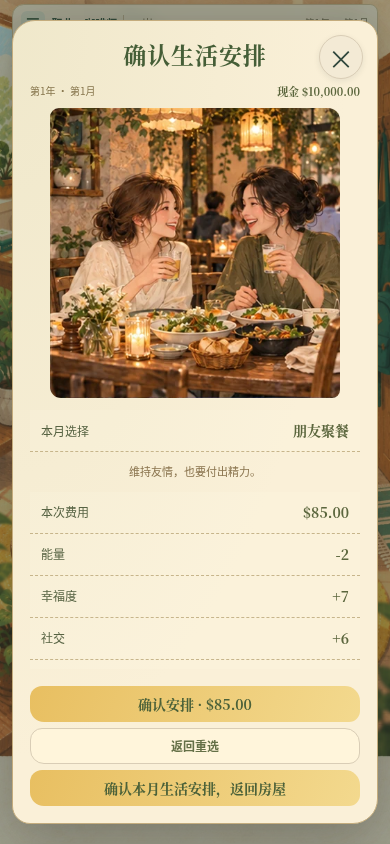
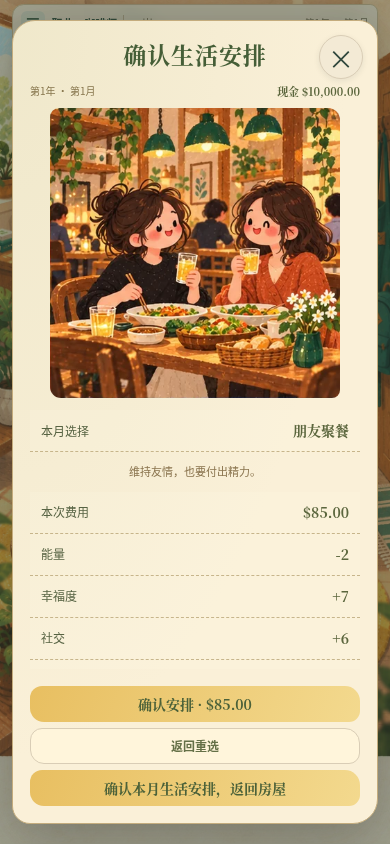
Restore original picture-book style for life illustrations

Changed region(s): [[0.1231, 0.1232, 0.8923, 0.4929]]

diff --git a/sw.js b/sw.js
@@ -1,4 +1,4 @@
-const CACHE='wealth-life-v28.3-life-pages1';
+const CACHE='wealth-life-v28.3-life-style1';
 const ASSETS=["./assets/career/life-funding.webp","./life-pages-art.js?v=28.3-life-pages1","./life-pages-art.css?v=28.3-life-pages1","./assets/career/life-activities.webp","./insurance-rules.js?v=28.3-insurance1","./insurance-hub.js?v=28.3-insurance1","./insurance-hub.css?v=28.3-insurance1","./life-hub-art.js?v=28.3-life-hub1","./life-hub-art.css?v=28.3-life-hub1","./assets/career/life-arrangements.webp","./recovery-activity-guards.js?v=28.3-recovery-guard1","./pet-social-contacts.js?v=28.3-pet-simple1","./assets/career/pet-gecko-cleaning.webp","./assets/career/pet-spider-cleaning.webp","./assets/career/pet-tortoise-cleaning.webp","./assets/career/pet-chameleon-cleaning.webp","./assets/career/pet-cat-professional.webp","./assets/career/pet-cat-cleaning-scenes.webp","./pet-art-map.js?v=28.3-pet-simple1","./pet-art-map.css?v=28.3-pet-map1","./pet-page-art.js?v=28.3-pet-map1","./assets/career/pet-policy.webp","./assets/career/pet-crocodile-cleaning.webp","./assets/career/pet-crocodile-adoption.webp","./assets/career/pet-cat-adoption.webp","./pet-funds-shortage.js?v=28.3-pet-funds1","./pet-funds-shortage.css?v=28.3-pet-funds1","./pet-adoption-success.js?v=28.3-pet-map1","./pet-adoption-success.css?v=28.3-pet-success1","./assets/career/pet-adoption-success.webp","./pet-owned-hub.js?v=28.3-pet-map1","./pet-owned-hub.css?v=28.3-pet-owned1","./assets/career/pet-owned-sheet.webp","./assets/career/pet-cleaning-scenes.webp","./pet-daily-care.js?v=28.3-pet-simple1","./pet-daily-care.css?v=28.3-pet-clean-art1","./pet-adoption-art.js?v=28.3-pet-map1","./pet-adoption-art.css?v=28.3-pet-form1","./assets/career/pet-corgi-adoption.webp","./pet-selection-art.js?v=28.3-pet-entry1","./pet-selection-art.css?v=28.3-pet-center1","./assets/career/pet-selection.webp","./pet-hub-art.js?v=28.3-pet-care-label1","./pet-hub-art.css?v=28.3-pet-hub1","./assets/career/pet-hub.webp","./assets/career/home-mobile.webp","./room-arrangements.js?v=28.3-pet-map1","./map-card-data.js?v=28.3-pet-social-limit1", "./map-card-rules.js?v=28.3-mapcards1", "./map-card-system.js?v=28.3-pet-simple1", "./map-card.css?v=28.3-mapcards1", "./assets/career/map-pet-unwell.webp", "./assets/career/map-pet-injury.webp", "./assets/career/map-pet-companion.webp", "./assets/career/map-pet-social.webp", "./assets/career/map-pet-mishap.webp", "./assets/career/map-investment-studio.webp", "./assets/career/map-investment-bun-shop.webp", "./assets/career/map-investment-laundry.webp"] .concat(["./cafe-rules.js?v=28.3-manager1","./cafe-system.js?v=28.3-manager1","./career-entry.js?v=28.3-mobile-room1","./career-entry.css?v=28.3-entry2","./assets/career/shift-promotion-pending.webp","./assets/career/shift-promotion-preview.webp","./assets/career/coffee-course.webp","./pet-adoption.js?v=28.3-pet-success1","./candidate-art.js?v=28.3-candidate1","./assets/career/barista-portrait.webp","./assets/career/pet-time-shortage.webp","./assets/career/pet-funds-shortage.webp","./assets/career/pet-crocodile-care.webp","./assets/career/bank-application.webp","./assets/career/bank-payment.webp","./housing-art.js?v=28.3-housing1","./assets/career/housing-select.webp","./assets/career/housing-reserve.webp","./assets/career/living-cost.webp","./return-art.js?v=28.3-return1","./assets/career/insurance.webp","./assets/career/return-energy.webp","./assets/career/return-stress.webp","./assets/career/payday.webp","./health-art.js?v=28.3-health1","./assets/career/rest-arrange.webp","./assets/career/rest-complete.webp","./assets/career/hospital-recovery.webp","./assets/career/month-recovery.webp","./education-art.js?v=28.3-education1","./assets/career/degrees.webp","./assets/career/associate-preview.webp","./learning-art.js?v=28.3-learning1","./assets/career/learning.webp","./assets/career/management-course.webp","./assets/career/service-course.webp","./hobby-art.js?v=28.3-room2","./assets/career/hobbies.webp","./home-scene.js?v=28.3-room-unified1","./home-scene.css?v=28.3-room-unified1","./assets/career/home.webp","./release-info.js?v=28.3-internal1","./financial-crisis.js?v=28.3-internal1","./four-state.js?v=28.3-internal1","./rest-state.js?v=28.3-internal1","./coffee-salary.js?v=28.3-internal1","./housing-lease.js?v=28.3-internal1","./pet-care.js?v=28.3-pet-map1","./necessary-bills.js?v=28.3-internal1","./recovery-ui.js?v=28.3-internal1","./medical-insurance.js?v=28.3-internal1","./recovery-rules.js?v=28.3-internal1","./time-ledger.js?v=28.3-internal1","./time-flow.js?v=28.3-home-end1","./assets/career/town.webp","./coffee-career.js?v=28.3-mapcards1", "./assets/career/barista-staff.webp", "./assets/career/barista-busy.webp", "./assets/career/barista-cut.webp", "./assets/career/barista-tip.webp", "./assets/career/barista-departure.webp", "./assets/career/shift-training.webp", "./assets/career/shift-schedule.webp", "./assets/career/shift-schedule-success.webp", "./assets/career/shift-schedule-failure.webp", "./assets/career/shift-complaint.webp", "./assets/career/shift-complaint-success.webp", "./assets/career/shift-complaint-failure.webp", "./assets/career/shift-acting.webp", "./assets/career/shift-acting-success.webp", "./assets/career/shift-acting-failure.webp", "./assets/career/shift-praise.webp", "./assets/career/intro.webp"] .concat(["./shift-lead.js?v=28.3-internal1","./shift-lead.css?v=28.3-internal1","./paper.css?v=28.3-internal1",'./coffee.js?v=28.3-internal1','./town.js?v=28.3-internal1','./','./index.html','./core.js','./flow.js?v=28.3-internal1','./journey.js?v=28.3-internal1','./batch.js?v=28.3-mapcards1','./revision.js?v=28.3-internal1','./annual.js?v=28.3-internal1','./core.js?v=28.3-mapcards1','./presentation.js?v=28.3-candidate1','./presentation.css?v=28.3-internal1','./city.svg','./manifest.webmanifest','./icons/icon-192.png','./icons/icon-512.png']));
 self.addEventListener('install',e=>{self.skipWaiting();e.waitUntil(caches.open(CACHE).then(c=>c.addAll(ASSETS)))});
 self.addEventListener('activate',e=>e.waitUntil(Promise.all([caches.keys().then(keys=>Promise.all(keys.filter(k=>k.startsWith('wealth-life-')&&k!==CACHE).map(k=>caches.delete(k)))),self.clients.claim()])));

diff --git a/qa/browser-life-pages-art.py b/qa/browser-life-pages-art.py
@@ -102,7 +102,7 @@ try:
   context.close()
   context=browser.new_context(viewport={'width':390,'height':844});page=context.new_page()
   page.goto(f'http://127.0.0.1:{server.server_port}',wait_until='networkidle');page.evaluate('navigator.serviceWorker.ready');page.reload(wait_until='networkidle');page.wait_for_function('navigator.serviceWorker.controller!==null')
-  assert page.evaluate('caches.keys()')==['wealth-life-v28.3-life-pages1']
+  assert page.evaluate('caches.keys()')==['wealth-life-v28.3-life-style1']
   context.set_offline(True);page.reload(wait_until='networkidle');page.get_by_role('button',name='查看职业预览',exact=True).click();page.get_by_role('button',name='选择这个人生',exact=True).click()
   page.evaluate('roomOpenArrangement("life");$("lifestyleBtn").click()');assert page.locator('.life-activity-card').count()==9
   assert page.evaluate('new Promise((resolve,reject)=>{const i=new Image;i.onload=()=>resolve(i.naturalWidth);i.onerror=reject;i.src="assets/career/life-activities.webp"})')>0

diff --git a/CODEX_HANDOFF.md b/CODEX_HANDOFF.md
@@ -1,5 +1,7 @@
 # 财富人生 Wealth Life — Codex 接手说明
 
+最新风格修正（2026-10-26）：用户指出生活新图偏写实，已同意改回原画风。先读 [生活插画风格修正](progress/life-style-correction-2026-10-26.md)。已用原房屋/宠物主画作明确参考，重画九场景图集和缺款钱包，恢复原圆脸简单五官、丸子头黑衣米裤、厚涂暖黄墨绿；旧图和旧截图归档保留。仅替换两张同名图，不改玩法JS/CSS或存档规则。资源仍73，缓存 `wealth-life-v28.3-life-style1`。资源清单及九项真实浏览器/离线检查通过，非真机；重画结果待用户视觉核对。仅本地未上传。
+
 当前最新（2026-10-26）：用户要求继续把剩余内容配成符合风格的插画；本轮按生活剩余板块完成“本月必要安排 + 九项可选生活活动 + 活动预览/结果 + 资金处理”。先读 [生活剩余页面插画检查点](progress/life-pages-art-2026-10-26.md)。新增九场景图集及家庭账单缺款图，必要账单保留原按钮；确认才调用原chooseLife，保留原费用/效果/月限及朋友随机后续，新增当月结果回执。旧图/旧档/康复门禁保留，耗时草案仍未采用。73生产图、缓存 `wealth-life-v28.3-life-pages1`。42个Node测试、九项实际浏览器流程及离线图加载通过，非真机。fetch远端仍8fbd48a，仅本地未上传。
 
 当前最新（2026-10-26）：用户要求做完“生活→保险”这一项，先读 [保险页面与合同操作检查点](progress/insurance-module-2026-10-26.md)。已做手绘入口、医疗选择/当月投保/次月切换停保/撤销、收入/车险投保及次月停保、共享保费核对、防重/缺款借贷返回、逐宠入口，移除新增统一45宠物险以免重复；旧合同价保留。原画租客险/人寿赔付/完整车辆事故表未确认，未擅自新增或冒充全险种玩法已完。42个Node测试及完整保险浏览器/离线检查通过，非真机。图仍71，缓存 `wealth-life-v28.3-insurance1`，仅本地未上传。住房/基本生活费两张用户预览截图一并保留。

diff --git a/NEXT_SESSION.md b/NEXT_SESSION.md
@@ -1,5 +1,7 @@
 # 新会话接手
 
+最新风格修正（2026-10-26）：用户指出生活新图偏写实，已同意改回原画风。先读 [生活插画风格修正](progress/life-style-correction-2026-10-26.md)。已用原房屋/宠物主画作明确参考，重画九场景图集和缺款钱包，恢复原圆脸简单五官、丸子头黑衣米裤、厚涂暖黄墨绿；旧图和旧截图归档保留。仅替换两张同名图，不改玩法JS/CSS或存档规则。资源仍73，缓存 `wealth-life-v28.3-life-style1`。资源清单及九项真实浏览器/离线检查通过，非真机；重画结果待用户视觉核对。仅本地未上传。
+
 当前最新（2026-10-26）：用户要求继续把剩余内容配成符合风格的插画；本轮按生活剩余板块完成“本月必要安排 + 九项可选生活活动 + 活动预览/结果 + 资金处理”。先读 [生活剩余页面插画检查点](progress/life-pages-art-2026-10-26.md)。新增九场景图集及家庭账单缺款图，必要账单保留原按钮；确认才调用原chooseLife，保留原费用/效果/月限及朋友随机后续，新增当月结果回执。旧图/旧档/康复门禁保留，耗时草案仍未采用。73生产图、缓存 `wealth-life-v28.3-life-pages1`。42个Node测试、九项实际浏览器流程及离线图加载通过，非真机。fetch远端仍8fbd48a，仅本地未上传。
 
 当前最新（2026-10-26）：用户要求做完“生活→保险”这一项，先读 [保险页面与合同操作检查点](progress/insurance-module-2026-10-26.md)。已做手绘入口、医疗选择/当月投保/次月切换停保/撤销、收入/车险投保及次月停保、共享保费核对、防重/缺款借贷返回、逐宠入口，移除新增统一45宠物险以免重复；旧合同价保留。原画租客险/人寿赔付/完整车辆事故表未确认，未擅自新增或冒充全险种玩法已完。42个Node测试及完整保险浏览器/离线检查通过，非真机。图仍71，缓存 `wealth-life-v28.3-insurance1`，仅本地未上传。住房/基本生活费两张用户预览截图一并保留。

diff --git a/progress/life-style-correction-2026-10-26.md b/progress/life-style-correction-2026-10-26.md
@@ -1,0 +1,13 @@
+# 生活插画风格修正（2026-10-26）
+
+用户指出新增生活图风格变了。确认问题是九种活动人物偏写实、光影与服装细节过多，与已确认房屋的圆脸、简化五官、厚实手绘笔触不一致。用户同意改回原风格；本检查点记录执行，不表示用户已验收重画结果。
+
+使用原 `home-mobile.webp` 和 `pet-hub.webp` 作为图像工具的明确风格参考，重画九种活动图集和缺款页的钱包账单图：保留九个场景含义、方格位置和家庭缺款含义；角色改为原房屋中的棕色丸子头、黑上衣、米色裤子和圆脸简单五官，配暖黄/墨绿、颗粒厚涂与纸质纹理。
+
+只替换同名生产插画，未改任何玩法JS/CSS、按钮、现金、时间、状态、月限和存档数据。旧版两张WebP存于 `assets/archive/life-pages-realistic-2026-10-26/`，此前截图存于 `progress/evidence/life-pages-before-style-fix/`；原生成PNG也保留，来源在资源清单登记。原候选459条和旧房屋/宠物图不改。生产资源仍73，缓存更新为 `wealth-life-v28.3-life-style1`，归档不进入缓存或部署。
+
+[修改后游戏页面](evidence/life-activities-2026-10-26.png) · [活动确认](evidence/life-activity-preview-2026-10-26.png) · [资金不足](evidence/life-funding-2026-10-26.png)。其余九项逐页截图沿用 [生活页面截图目录](life-pages-art-2026-10-26.md)。
+
+本地保存，未上传/合并/部署。实际浏览器结果见 `qa/browser-evidence/life-pages-art.json`；非真机验收。
+
+资源清单哈希/预缓存检查通过。完整生活浏览器回归覆盖九项预览、原确认费用效果/月限/朋友后续/原必要账单支付/真实借贷返回/小屏居中与离线新图加载；玩法未作修改。

diff --git a/progress/life-pages-art-2026-10-26.md b/progress/life-pages-art-2026-10-26.md
@@ -1,5 +1,7 @@
 # 生活剩余页面插画检查点（2026-10-26）
 
+后续覆盖：用户指出本轮新图偏写实，已重画，见 [风格修正](life-style-correction-2026-10-26.md)。以下截图路径现为修正后的游戏画面；偏写实版保留在 evidence/life-pages-before-style-fix/，规则说明继续有效。
+
 用户要求继续下一步，把内容做成符合游戏风格的插画。本轮承接已完成的生活入口、住房、基本生活费与保险，把剩余生活入口及其交易页面统一成暖纸、植物、暖阳插画。没有重建游戏，没有迁移或删除旧存档，没有推送合并部署。
 
 ## 本轮页面
